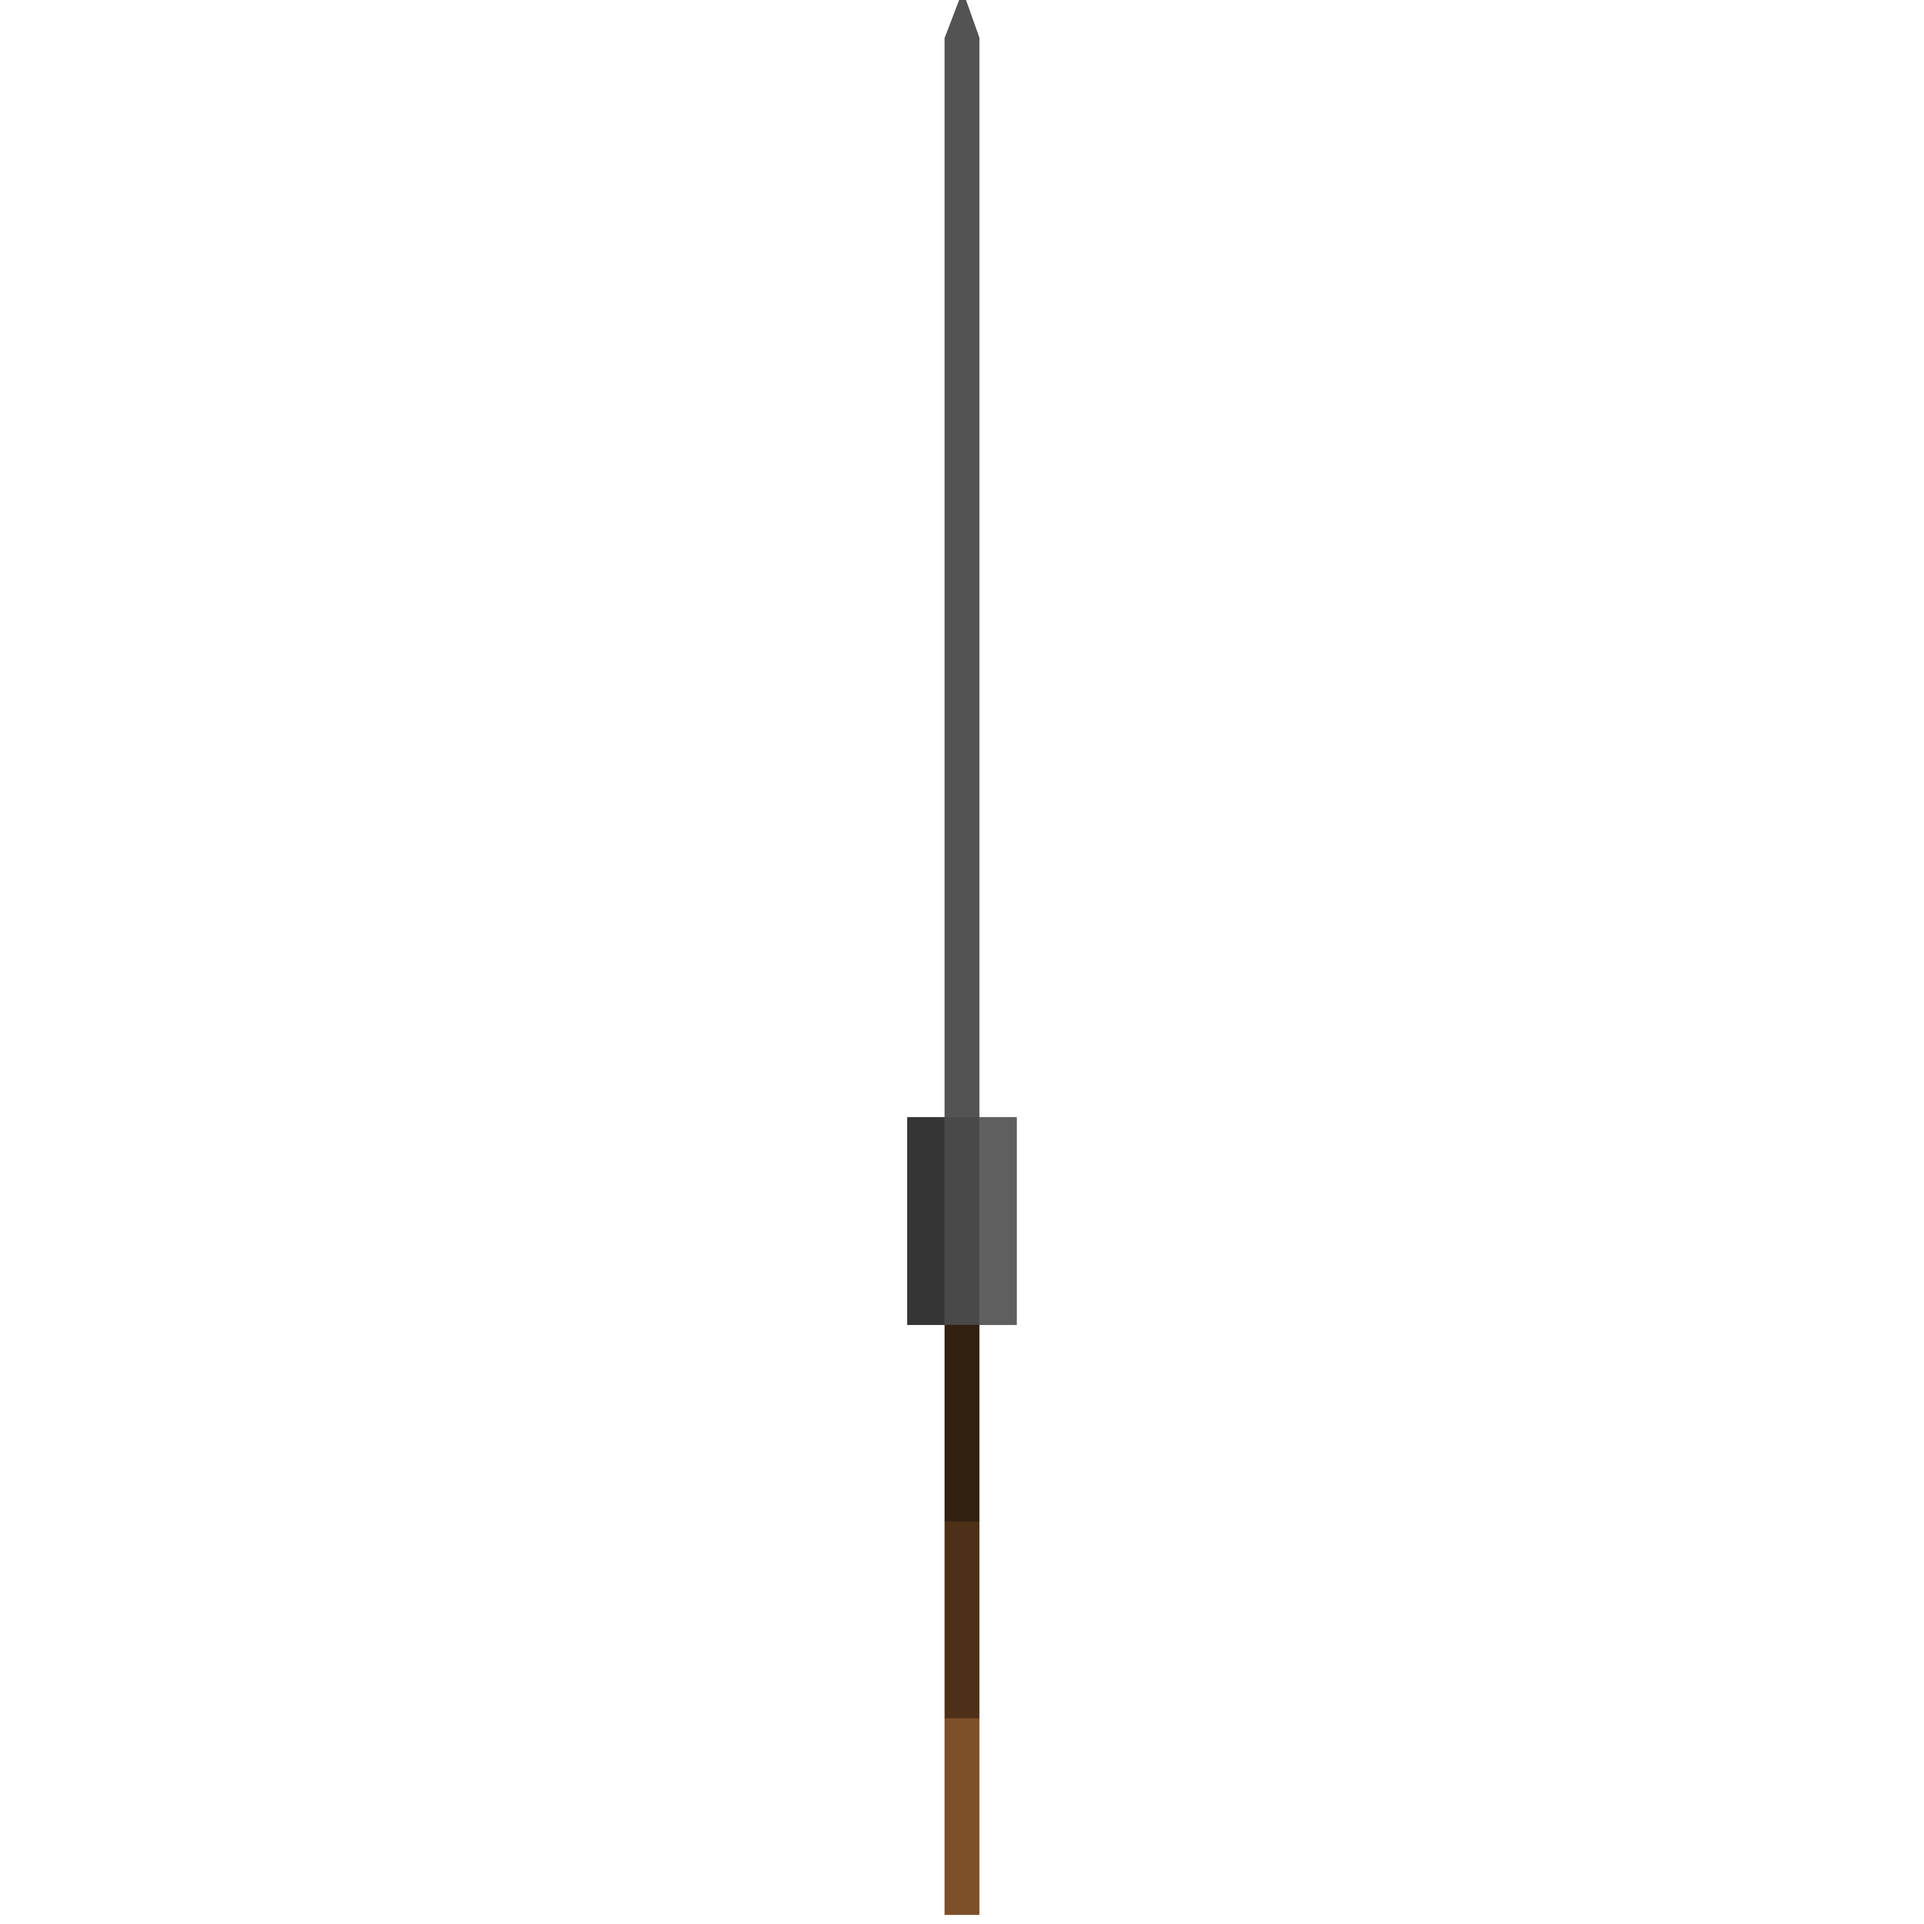
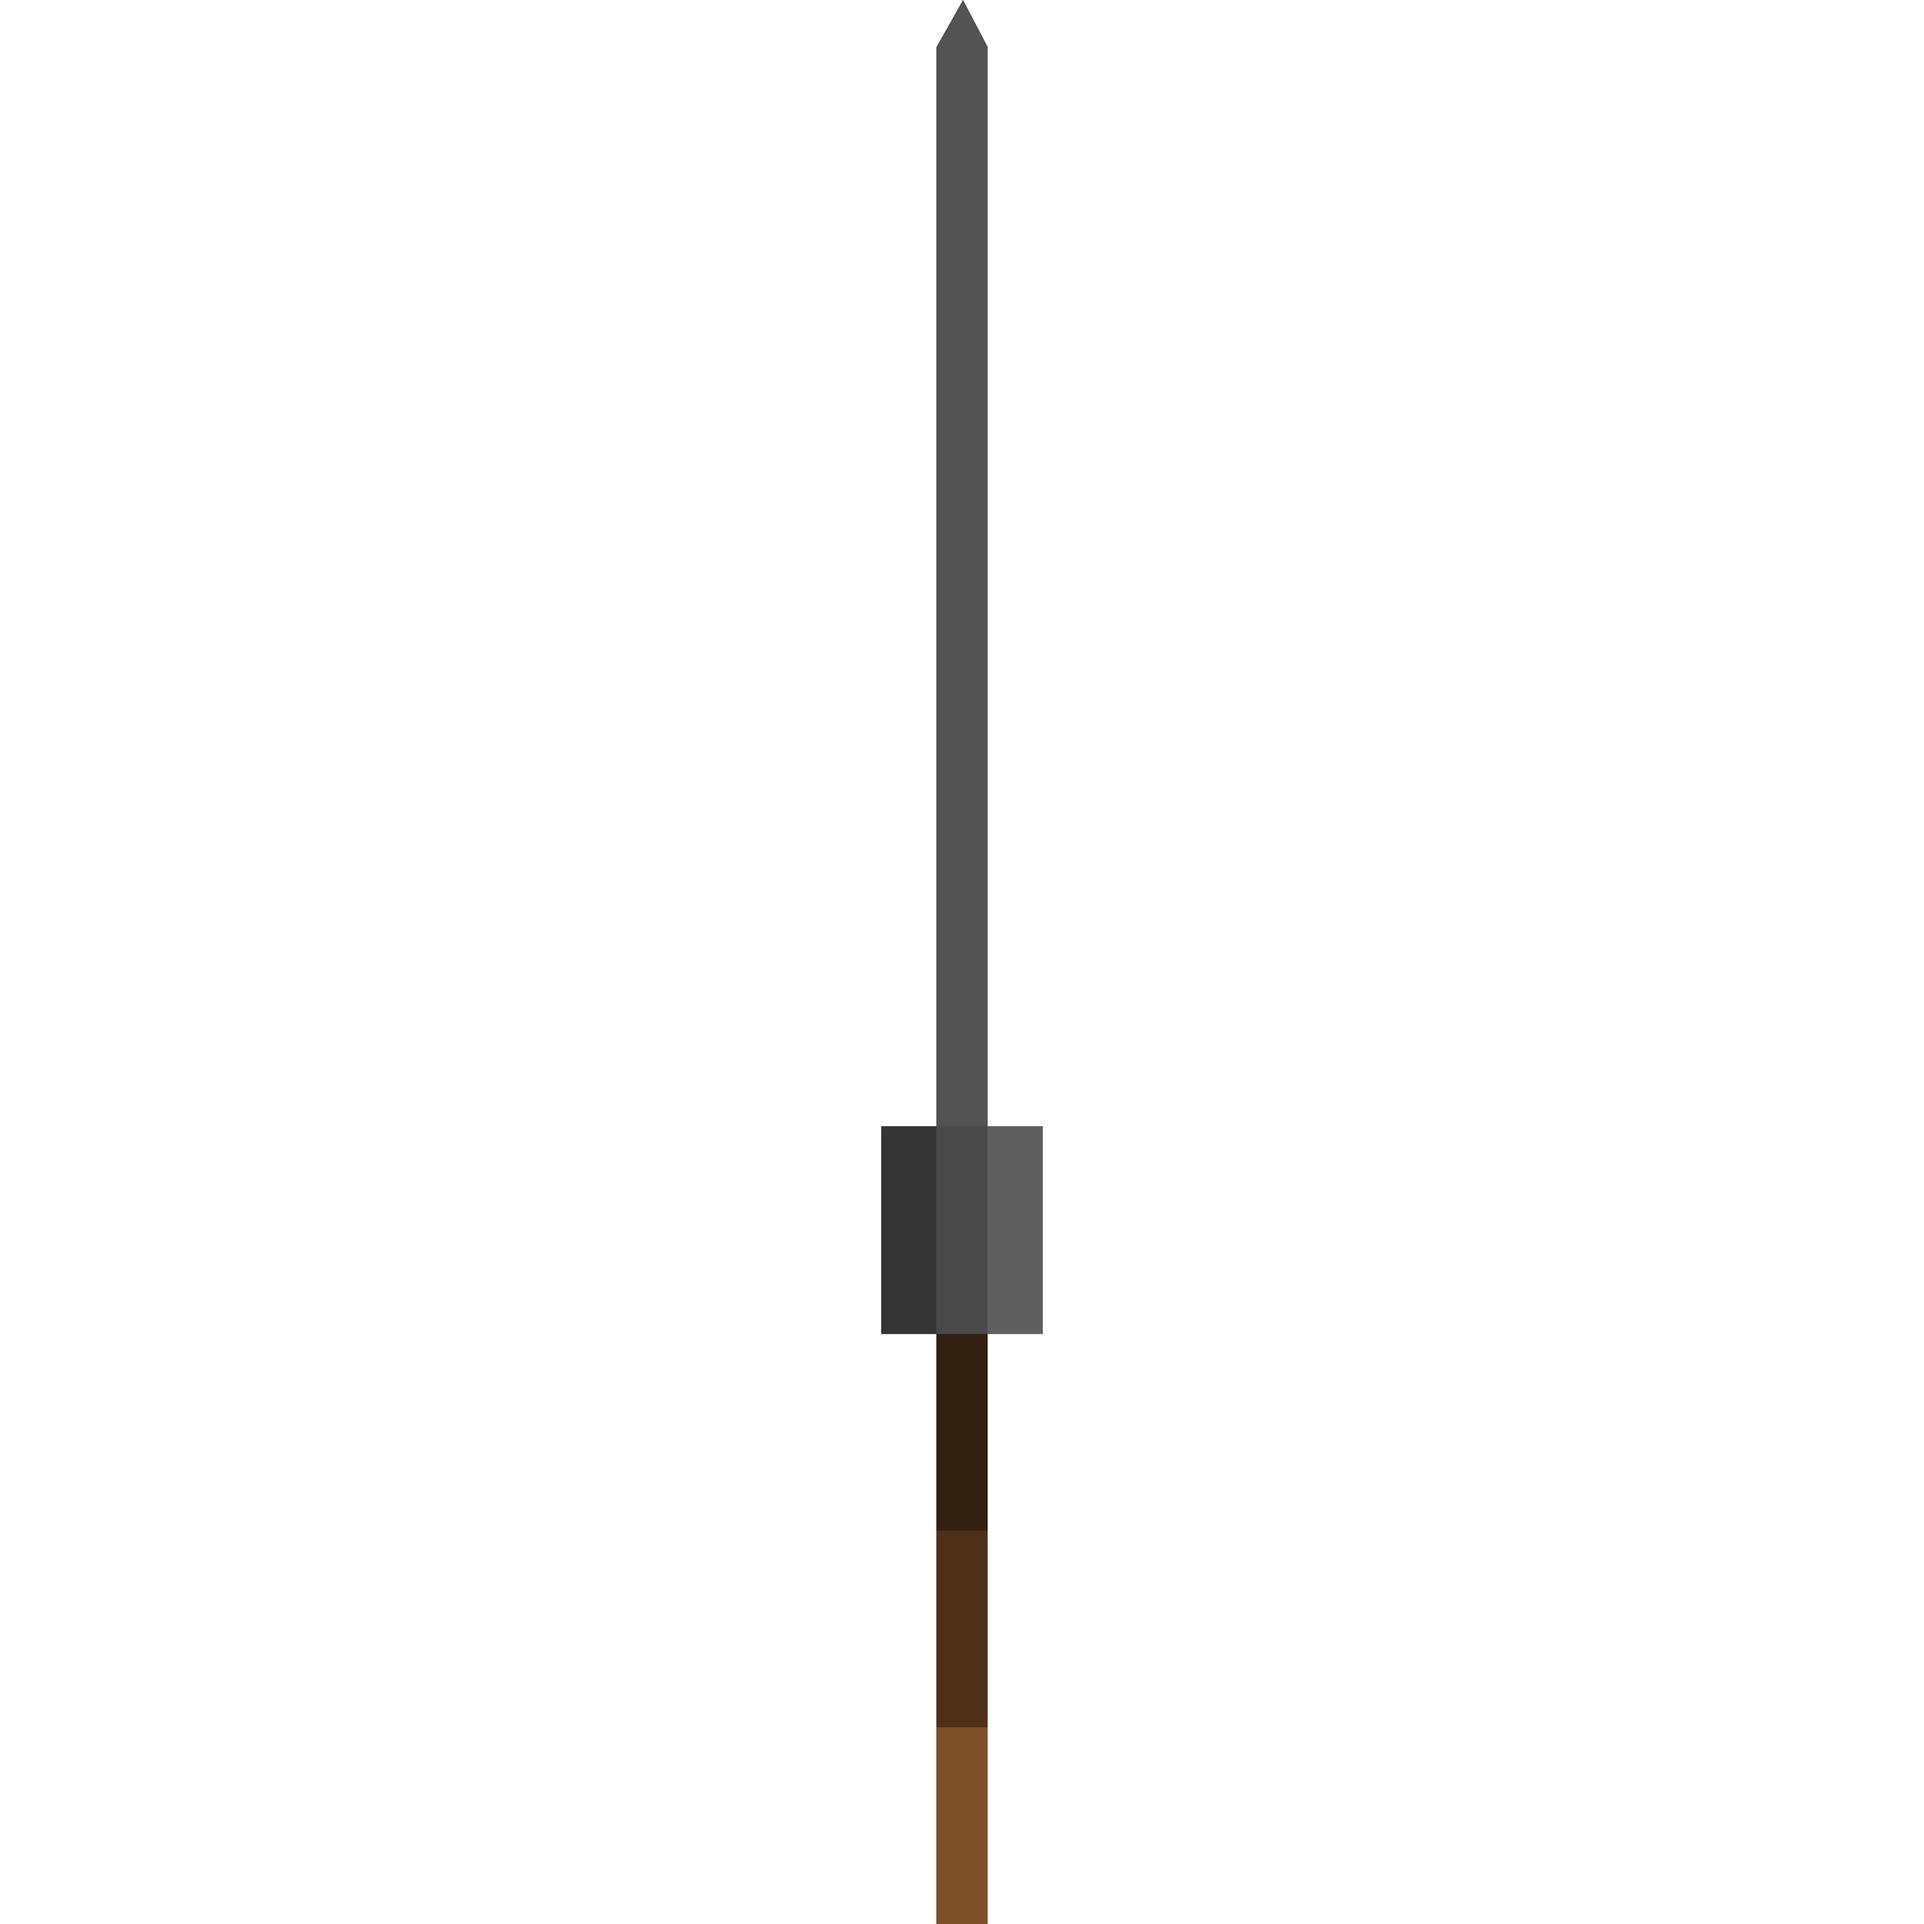
fixing just half it

Changed region(s): [[0.4356, 0.0311, 0.56, 1.0]]

diff --git a/justhalfit.html b/justhalfit.html
@@ -1084,6 +1084,9 @@
             { id: 'pepsi',    name: 'PEPSI',     file: 'assets/halfcut/pepsi.png',    weight: 0.9 },
             { id: 'pizza',    name: 'PIZZA',     file: 'assets/halfcut/pizza.png',    weight: 1.8 },
             { id: 'pretzel',  name: 'PRETZEL',   file: 'assets/halfcut/pretzel.png',  weight: 0.35 },
+            { id: 'tacos',    name: 'TACOS',     file: 'assets/halfcut/tacos.png',    weight: 0.35 }, //tolong perbaiki weight nya ini masih salinan
+            { id: 'kukis',    name: 'KUKIS',     file: 'assets/halfcut/kukis.png',    weight: 0.35 }, //tolong perbaiki weight nya ini masih salinan
+            { id: 'kelapa',   name: 'KELAPA',    file: 'assets/halfcut/kelapa.png',   weight: 0.35 }, //tolong perbaiki weight nya ini masih salinan
         ];
 
         let game = {
